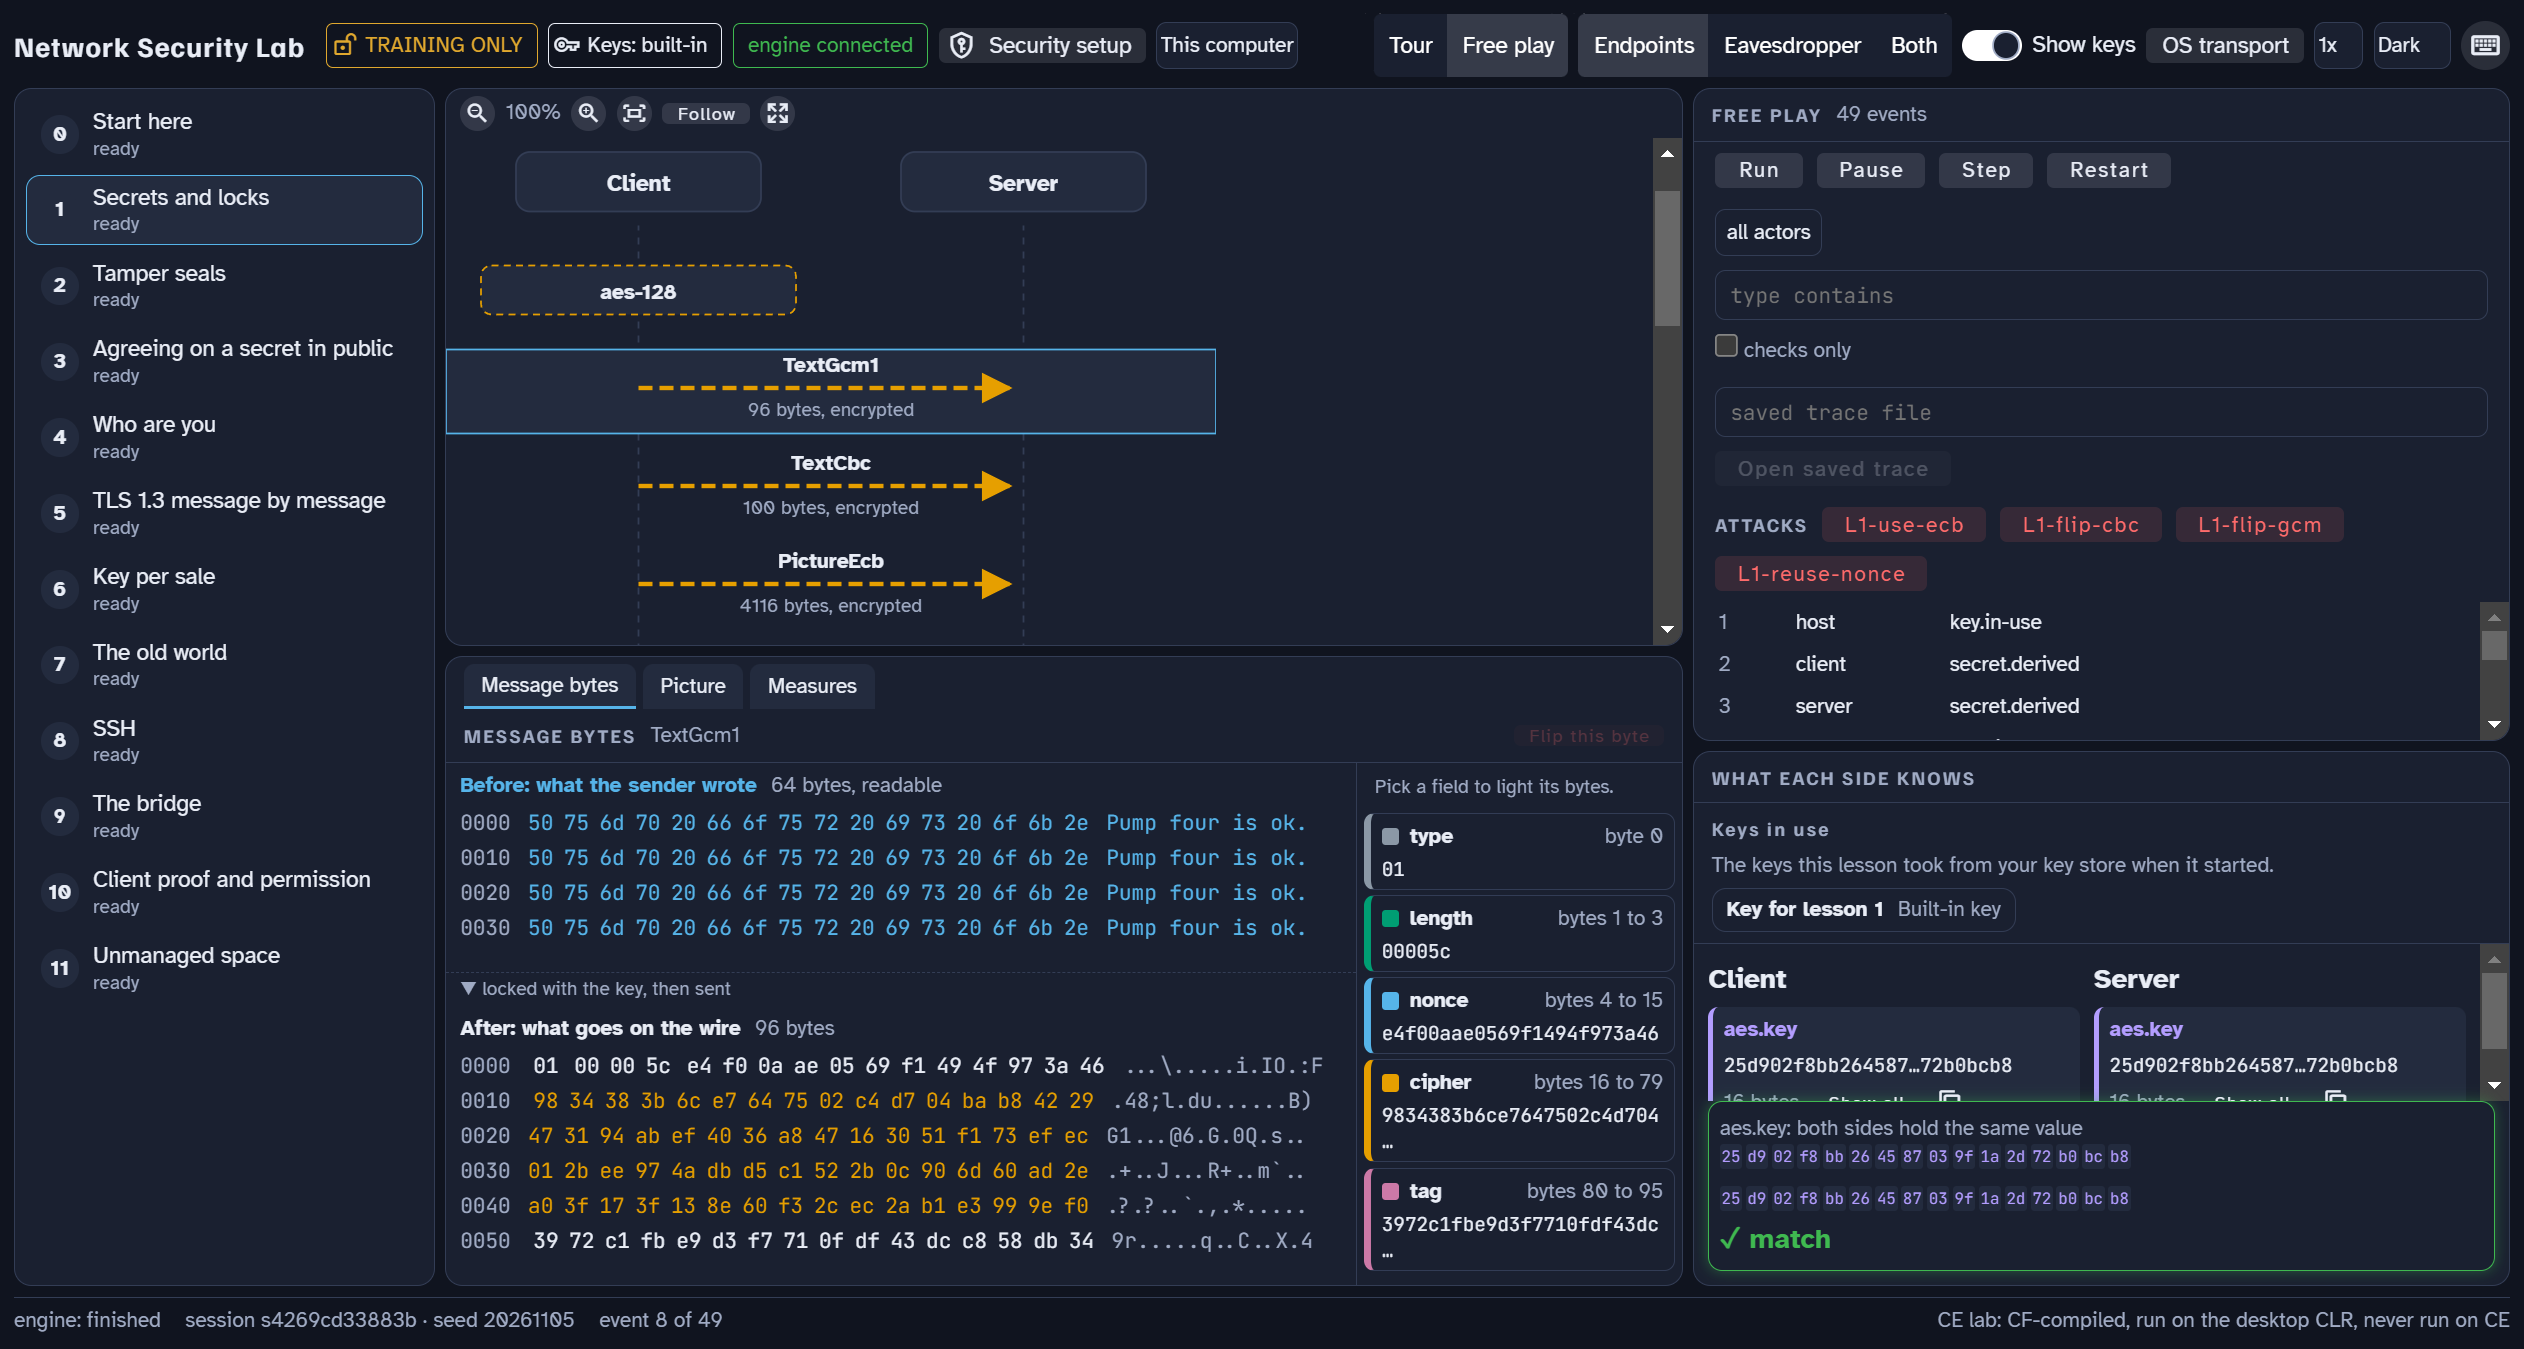
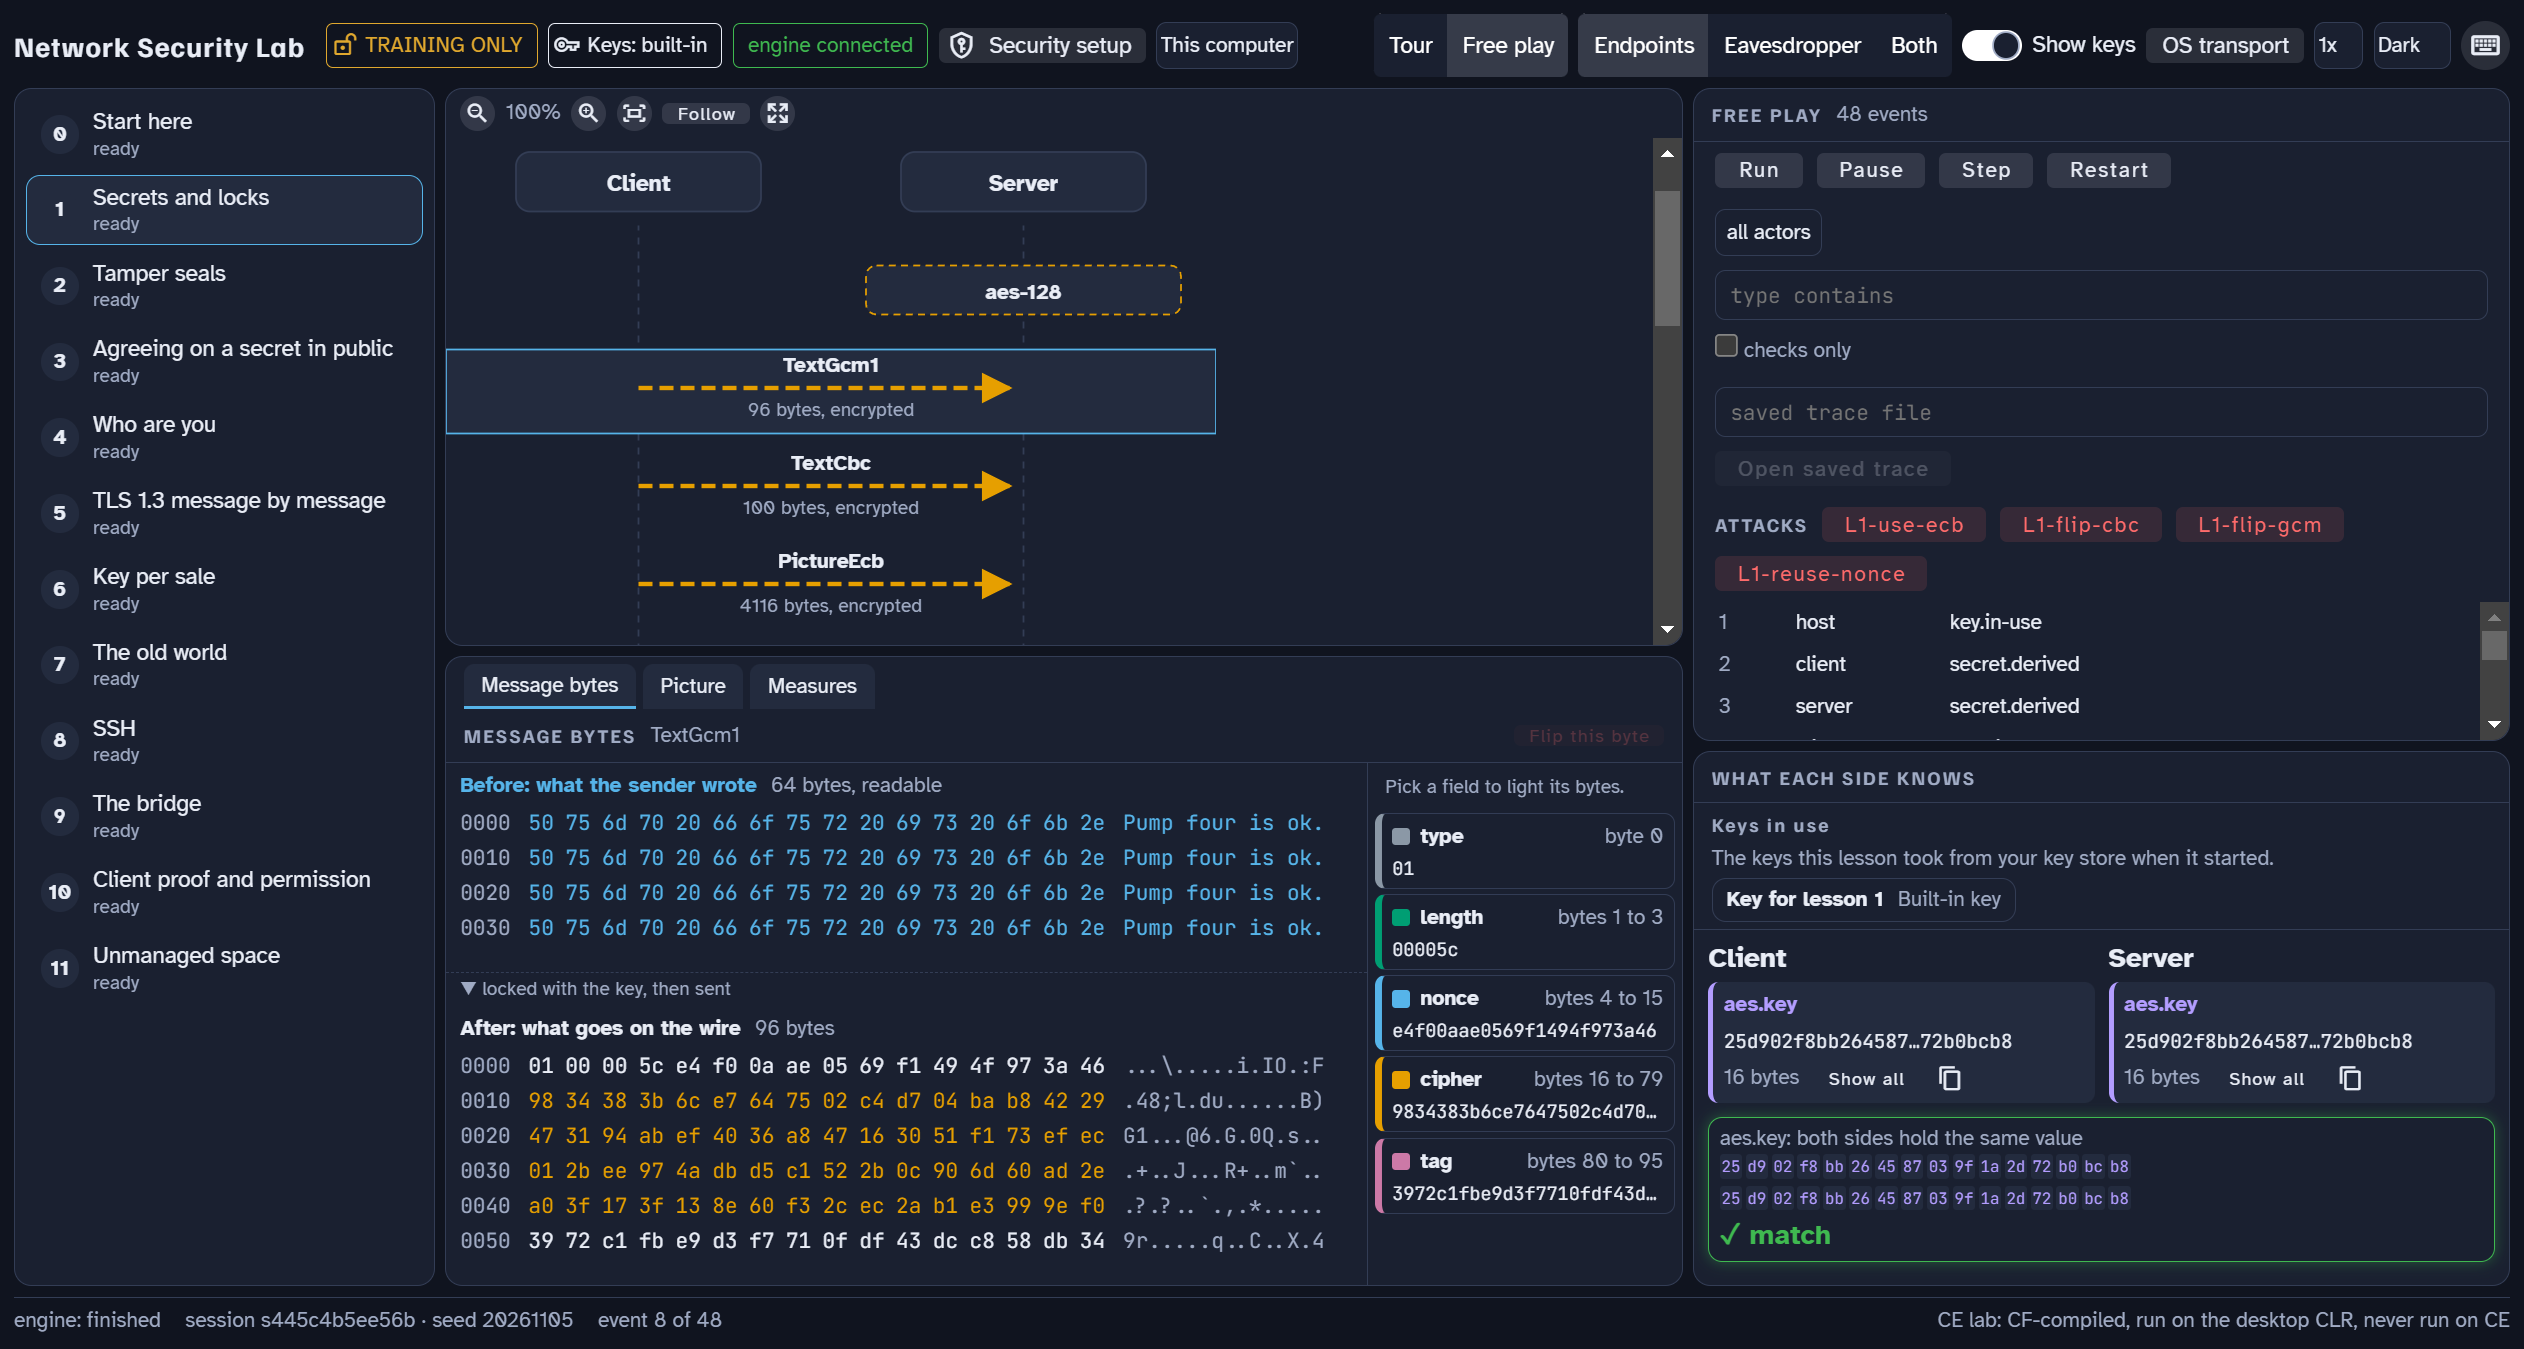
fix(app): a field preview stays on one line with the bundled mono font
The bundled mono face is wider than the fallback, so a 12-byte preview wrapped and
pushed the tag field out of view at 760 high. The secrets panel was 2 px over.

Claude-Session: https://claude.ai/code/session_013RTdUaidNWNSSsRoFumAcR

diff --git a/app/src/style.css b/app/src/style.css
@@ -138,7 +138,7 @@ body { overflow: hidden; }
 .field-row .fname { font-weight: 700; display: inline-flex; align-items: center; gap: 6px; min-width: 0; overflow-wrap: anywhere; }
 .swatch { display: inline-block; width: 10px; height: 10px; border-radius: 2px; flex: 0 0 auto; }
 .fgloss { grid-column: 1 / -1; font-size: 11px; color: var(--muted); }
-.fval { grid-column: 1 / -1; font: 11px var(--mono); overflow-wrap: anywhere; }
+.fval { grid-column: 1 / -1; font: 10.5px var(--mono); white-space: nowrap; overflow: hidden; text-overflow: ellipsis; min-width: 0; }
 .field-note { display: block; padding: 2px 6px 6px; color: var(--encrypted); font-style: italic; }
 /* A narrow panel stacks the field list under the grids, as one line per field. */
 .inspector { container-type: inline-size; }
@@ -164,7 +164,7 @@ body { overflow: hidden; }
 .sname { font-weight: 700; color: var(--secret); }
 .secret-row code { font: 11px var(--mono); overflow-wrap: anywhere; }
 .chip-from { font-size: 10px; border: 1px solid var(--line); border-radius: 8px; padding: 0 5px; color: var(--muted); }
-.converge { margin: 0 8px 6px; padding: 4px 6px; border: 1px solid var(--line); border-radius: 8px; }
+.converge { margin: 0 8px 2px; padding: 3px 6px; border: 1px solid var(--line); border-radius: 8px; }
 .converge.match { border-color: var(--pass); box-shadow: 0 0 8px color-mix(in srgb, var(--pass) 40%, transparent); }
 .grids { display: flex; gap: 4px 10px; flex-wrap: wrap; }
 .grid32 { display: grid; grid-template-columns: repeat(16, 1fr); gap: 2px; font: 9px var(--mono); }
